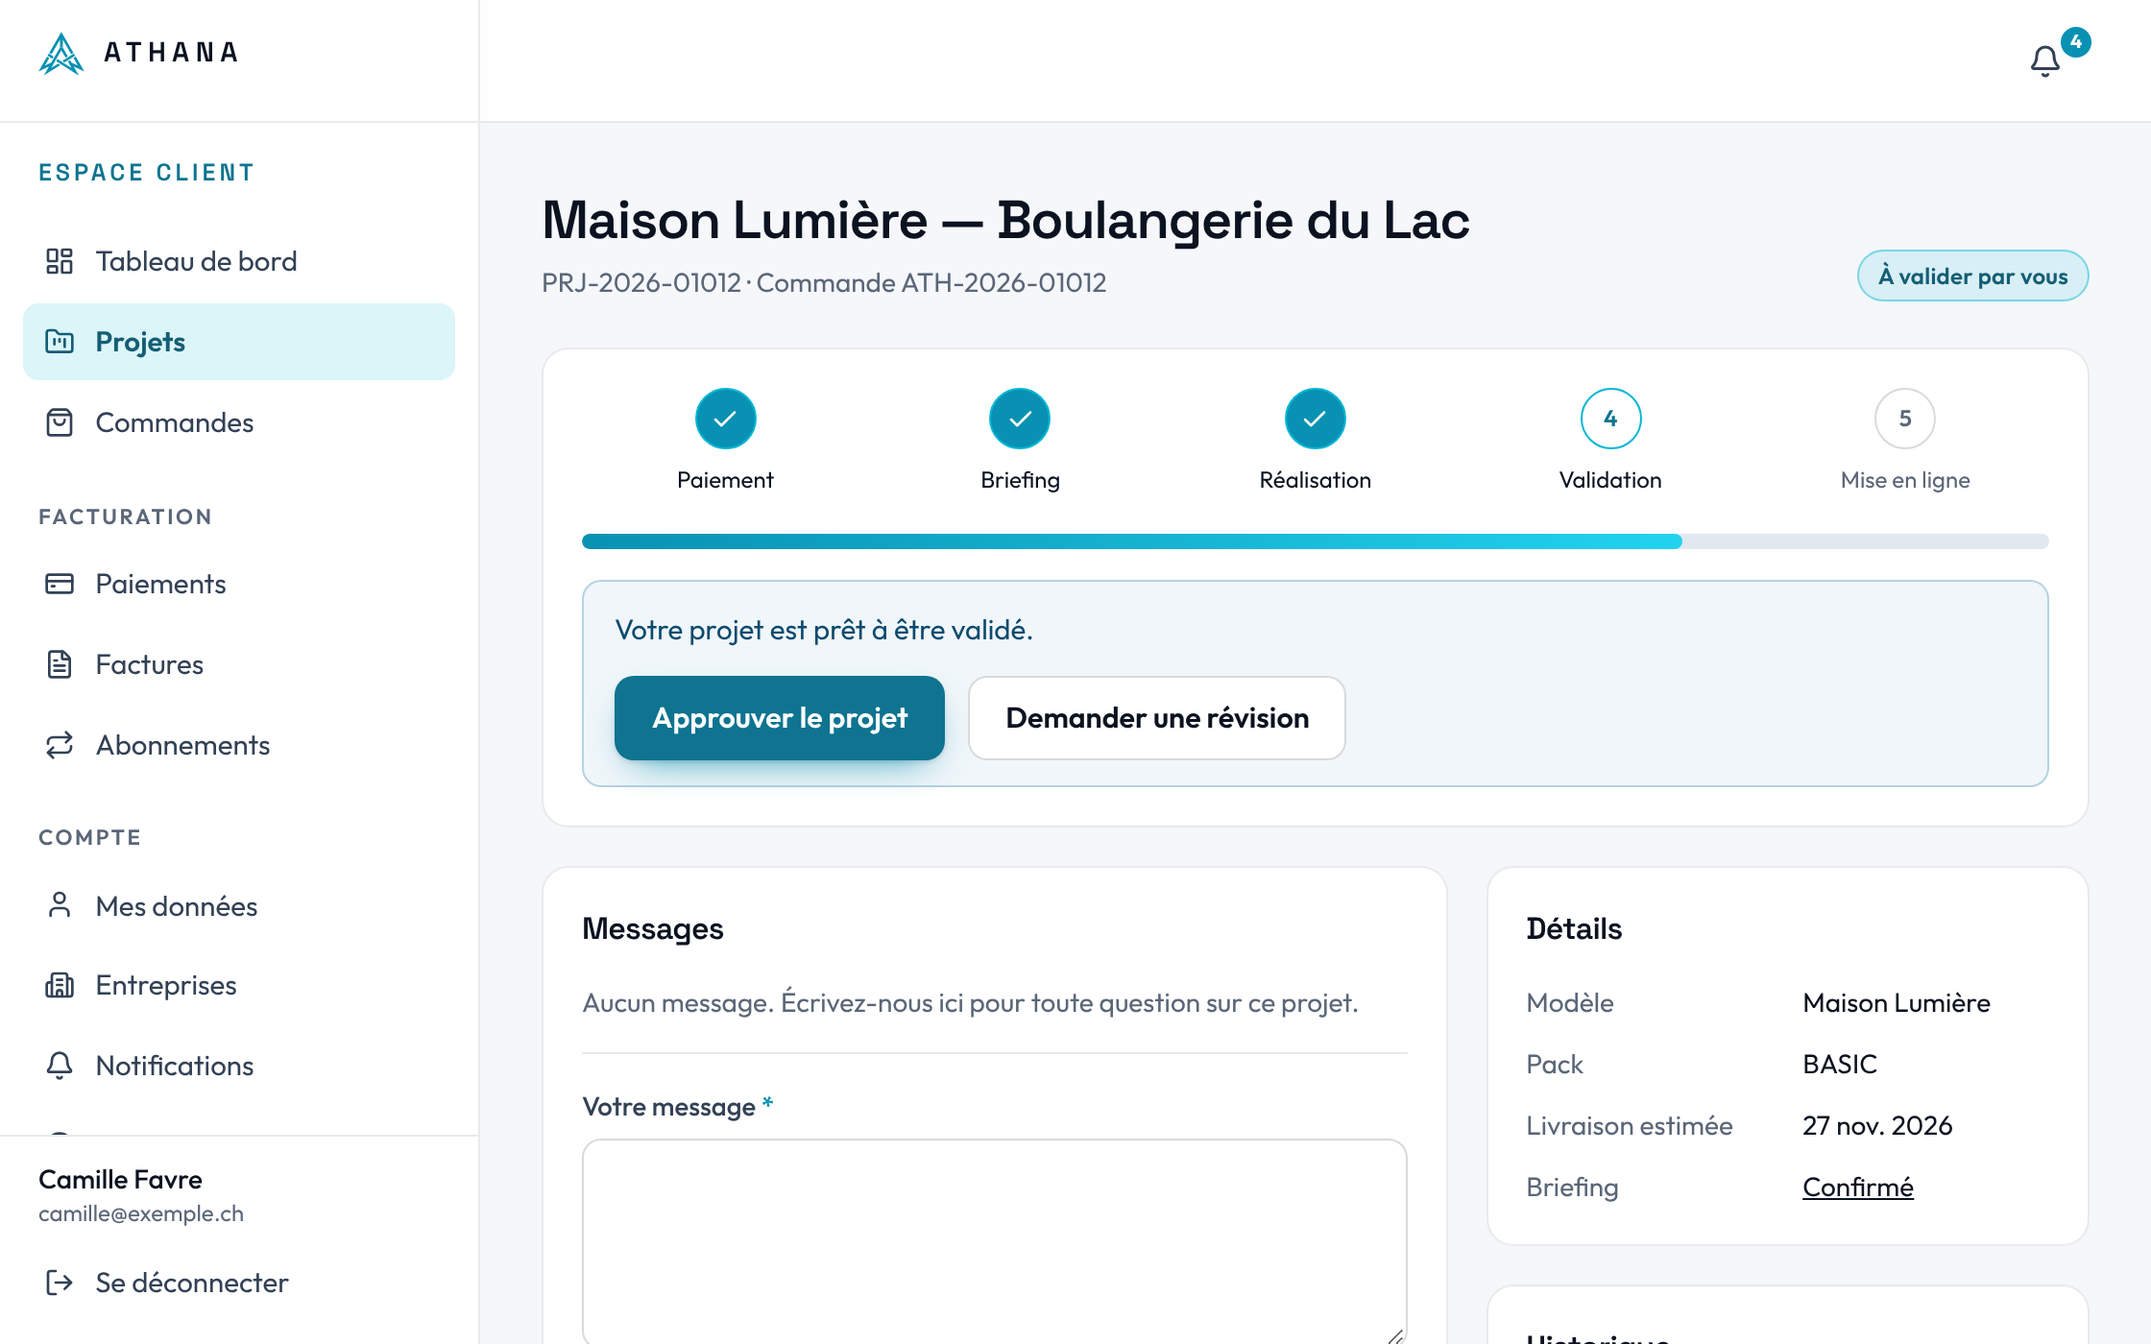
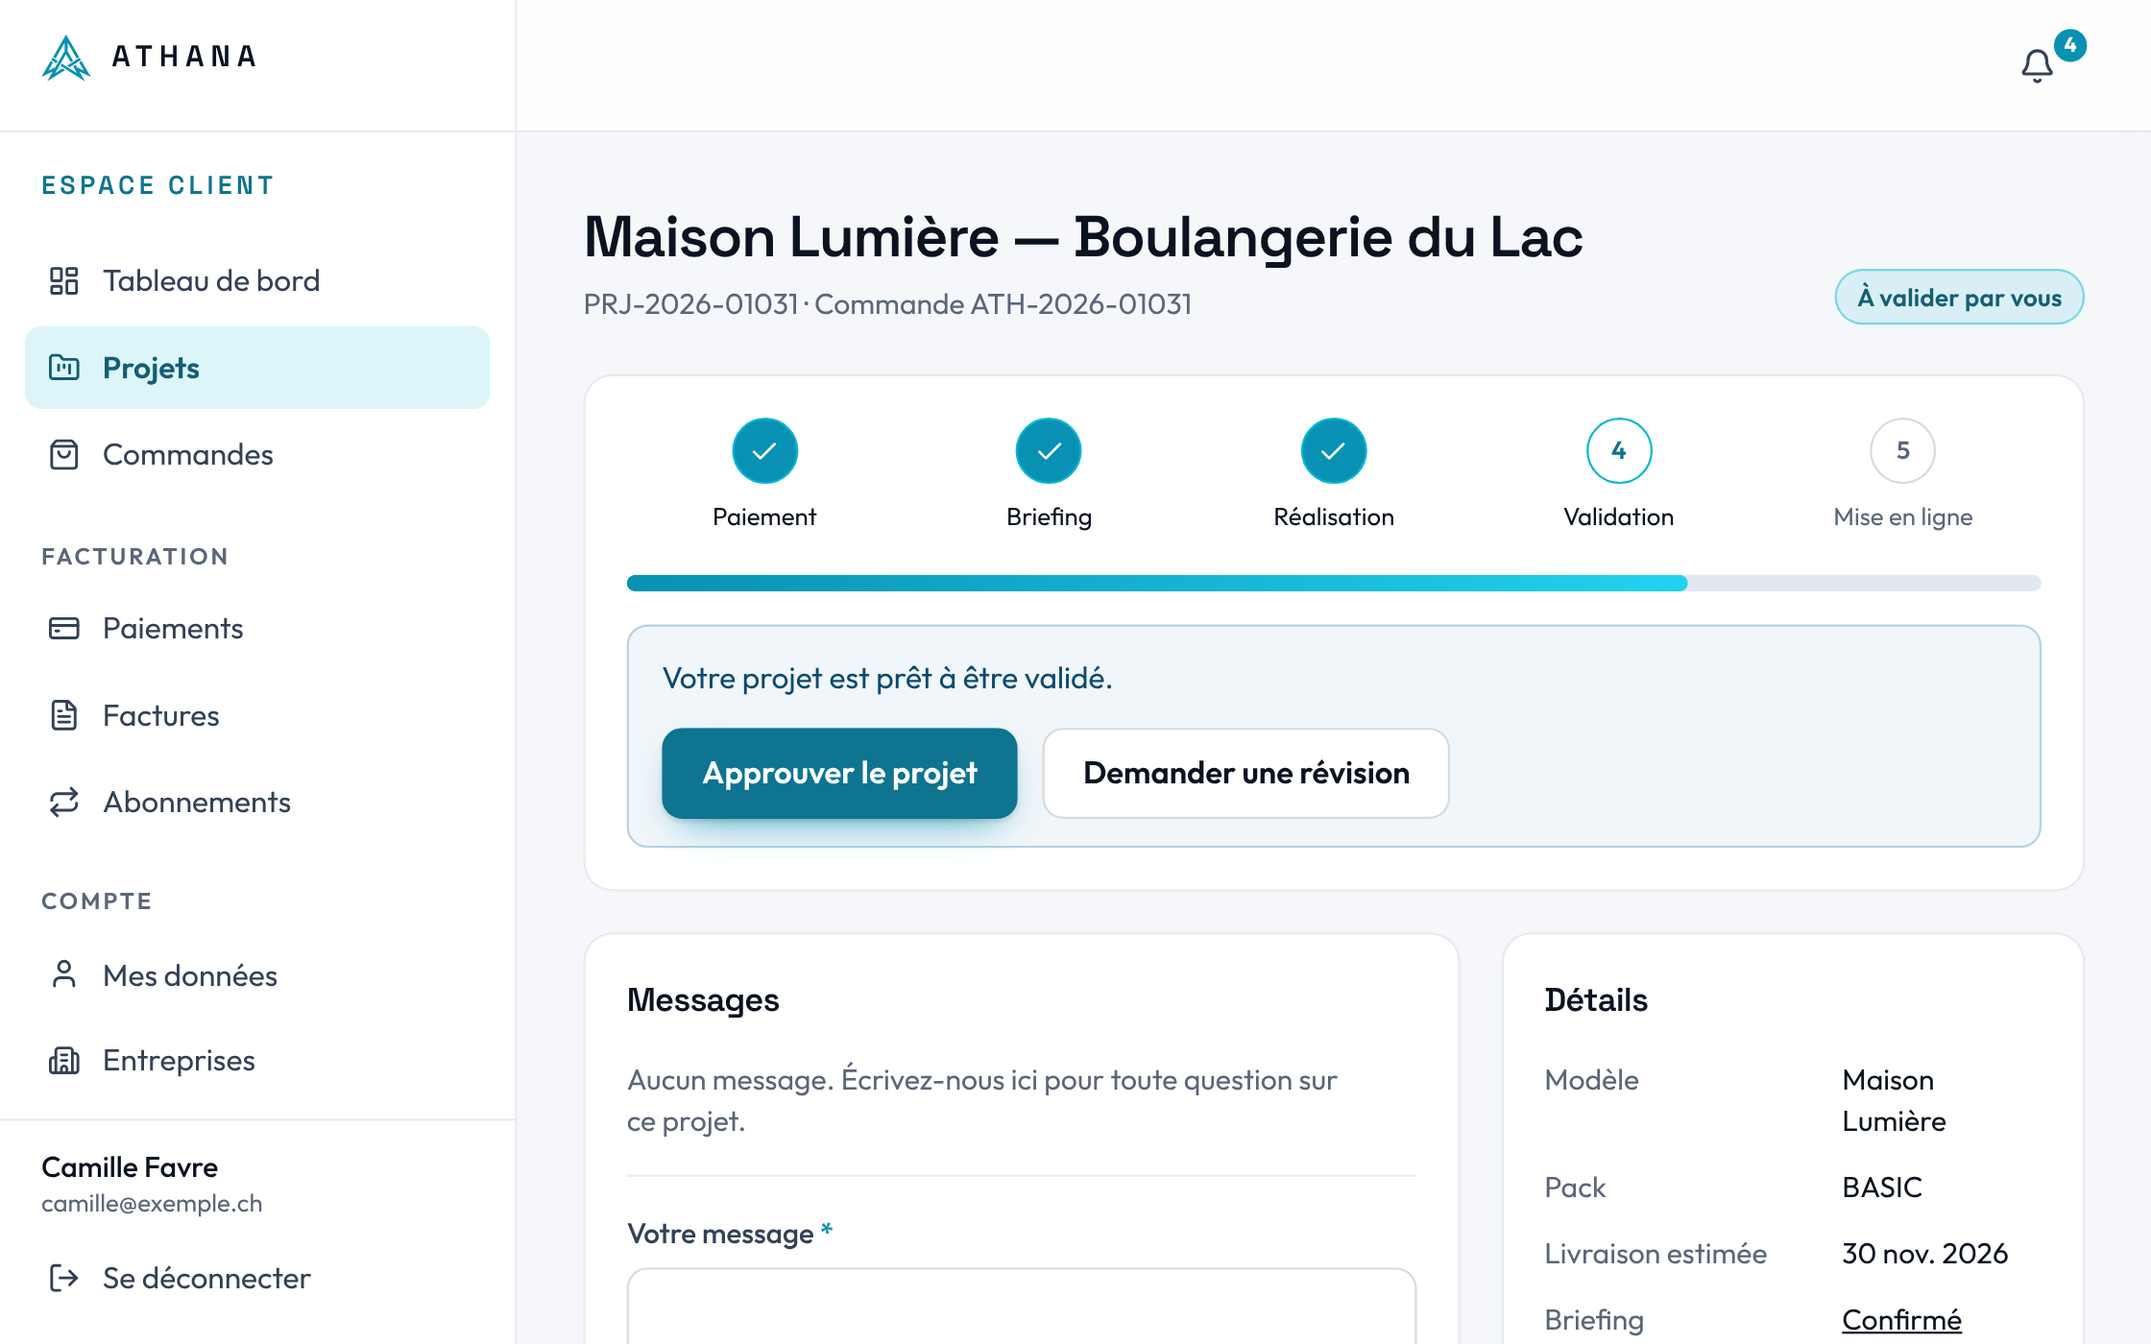
Public site: custom language menu, alternating software pictures, flat pill buttons, sharper client-area capture
Claude-Session: https://claude.ai/code/session_014ASPmz5AYwP5RQD6uPfvJx

diff --git a/src/app/globals.css b/src/app/globals.css
@@ -280,8 +280,13 @@
 .site-icon:active { transform: scale(0.94); }
 .site-lang { height: 42px; padding: 0 12px; border-radius: 999px; font-family: var(--font-display); font-weight: 500; color: var(--color-fg); transition: background-color 0.2s; }
 .site-lang:hover { background: rgb(12 18 28 / 0.06); }
-.site-lang select { font-family: inherit; font-weight: 500; color: inherit; }
-.site .btn.site-cta { min-height: 44px; padding-inline: 1.35rem; border-radius: 999px; font-size: 0.9375rem; }
+.lang-menu { position: absolute; right: 0; top: calc(100% + 8px); z-index: 50; min-width: 190px; padding: 6px; border-radius: 14px; background: #ffffff; box-shadow: 0 0 0 1px rgb(6 32 42 / 0.08), 0 18px 40px -16px rgb(6 32 42 / 0.35); font-family: var(--font-display); transform-origin: top right; opacity: 0; transform: translateY(-4px) scale(0.97); pointer-events: none; visibility: hidden; transition: opacity 0.14s, transform 0.14s, visibility 0s 0.14s; }
+.lang-menu[data-open="true"] { opacity: 1; transform: none; pointer-events: auto; visibility: visible; transition: opacity 0.2s cubic-bezier(0.2, 0.8, 0.2, 1), transform 0.2s cubic-bezier(0.2, 0.8, 0.2, 1); }
+.lang-menu button { display: flex; width: 100%; align-items: center; justify-content: space-between; gap: 16px; padding: 10px 12px; border-radius: 9px; font-size: 0.9375rem; font-weight: 500; color: #06202a; text-align: left; transition: background-color 0.15s; }
+.lang-menu button:hover { background: #e6f7fb; }
+.lang-menu button[aria-checked="true"] { background: #06202a; color: #ffffff; }
+.lang-code { font-size: 0.75rem; font-weight: 600; letter-spacing: 0.04em; opacity: 0.6; }
+.site .btn.site-cta { min-height: 42px; padding-inline: 1.25rem; font-size: 0.9rem; }
 @media (max-width: 1360px) { .site-nav a { padding-inline: 10px; font-size: 0.875rem; } .site .btn.site-cta { padding-inline: 1.1rem; font-size: 0.875rem; } .site-lang { padding-inline: 8px; } }
 /* Home hero: the two-column composition the owner chose (statement on the left, two real templates on the right)
    on a faintly tinted ground. */
@@ -290,8 +295,6 @@
 .site .hero .eyebrow { color: var(--color-accent-700); font-size: 0.9375rem; }
 .site .hero h1 { font-size: clamp(2.25rem, 3.75vw, 3.75rem); line-height: 1.1; letter-spacing: -0.03em; font-weight: 500; text-wrap: wrap; }
 .site .hero h1 .mark { color: var(--color-accent-700); white-space: nowrap; }
-.site .hero .btn { border-radius: 999px; padding-inline: 1.75rem; }
-.site .hero .btn-outline { color: var(--color-accent-800); background: transparent; }
 .site .hero-visual { position: relative; padding: 0 5% 9% 0; }
 .site .hero-visual > :nth-child(2) { position: absolute; right: 0; bottom: 0; width: 58%; }
 .site .hero-visual .browser { transition: transform 0.9s cubic-bezier(0.22, 1, 0.36, 1); will-change: transform; }
@@ -303,18 +306,22 @@
 @media (min-width: 1024px) and (min-height: 640px) { .site .hero { min-height: 100svh; display: grid; align-items: center; } }
 /* Colour: the first pass was too pale. Tinted grounds, a vivid primary action and a teal band. */
 .site { --color-ink-900: #e6f7fb; --color-ink-800: #d3eff6; --color-ink-700: #c4e8f1; --color-fg: #06202a; --color-fg-soft: #23414c; --color-fg-muted: #4c6873; }
-.site .btn-primary, .site .section-dark .btn-primary, .site .section-dark .section-light .btn-primary { background: linear-gradient(135deg, #2fdcf5 0%, #06b6d4 100%); color: #04232d; box-shadow: 0 12px 26px -14px #0891b2, inset 0 1px 0 rgb(255 255 255 / 0.45); }
-.site .btn-primary:hover, .site .section-dark .btn-primary:hover { background: linear-gradient(135deg, #5be6fa 0%, #12c2de 100%); }
-.site .btn-outline { border-color: color-mix(in srgb, var(--color-accent-600) 45%, transparent); color: var(--color-accent-900); }
-.site .btn-outline:hover { background: var(--color-accent-100); border-color: var(--color-accent-600); color: var(--color-accent-900); }
-.site .section-dark .btn-outline { color: #fff; border-color: rgb(255 255 255 / 0.35); }
-.site .section-dark .btn-outline:hover { background: rgb(255 255 255 / 0.1); color: #fff; }
+.site .btn { border-radius: 999px; min-height: 46px; padding: 0 1.4rem; border: 1.5px solid transparent; font-weight: 600; font-size: 0.9375rem; letter-spacing: -0.005em; box-shadow: none; }
+.site .btn-lg { min-height: 52px; padding: 0 1.75rem; border-radius: 999px; font-size: 1rem; }
+.site .btn-sm { min-height: 40px; padding: 0 1.1rem; border-radius: 999px; font-size: 0.875rem; }
+.site .btn-primary, .site .section-dark .section-light .btn-primary { background: #0b5d73; border-color: #0b5d73; color: #ffffff; box-shadow: none; }
+.site .btn-primary:hover, .site .section-dark .section-light .btn-primary:hover { background: #06202a; border-color: #06202a; }
+.site .btn-outline, .site .hero .btn-outline { background: transparent; border-color: #06202a; color: #06202a; }
+.site .btn-outline:hover { background: #06202a; border-color: #06202a; color: #ffffff; }
+.site .section-dark .btn-primary { background: #ffffff; border-color: #ffffff; color: #06202a; }
+.site .section-dark .btn-primary:hover { background: var(--color-accent-200); border-color: var(--color-accent-200); }
+.site .section-dark .btn-outline { background: transparent; color: #ffffff; border-color: rgb(255 255 255 / 0.6); }
+.site .section-dark .btn-outline:hover { background: #ffffff; border-color: #ffffff; color: #06202a; }
 .site .hero { background:
   radial-gradient(60% 70% at 88% 18%, rgb(34 211 238 / 0.38), transparent 70%),
   radial-gradient(45% 55% at 62% 92%, rgb(16 185 129 / 0.16), transparent 70%),
   linear-gradient(180deg, #d6f5fb 0%, #eefbfd 62%, #ffffff 100%); }
 .site .hero h1 .mark { color: var(--color-accent-600); }
-.site .hero .btn-outline { background: #ffffff; }
 .site .screen--surface { background: linear-gradient(180deg, #e6f7fb 0%, #f1fbfd 100%); }
 .site .section-dark { background: linear-gradient(135deg, #04222c 0%, #0a4254 55%, #0e6d87 120%); --color-ink-950: #062c39; --color-ink-900: rgb(255 255 255 / 0.08); --color-ink-850: rgb(255 255 255 / 0.08); --color-ink-800: rgb(255 255 255 / 0.14); --color-fg: #ffffff; --color-fg-soft: #cdeaf2; --color-fg-muted: #9cc9d6; }
 .site .section-dark .num { color: var(--color-accent-300); font-weight: 600; }

diff --git a/src/components/site/HeaderClient.tsx b/src/components/site/HeaderClient.tsx
@@ -1,8 +1,8 @@
 'use client';
 
-import { useEffect, useState } from 'react';
+import { useEffect, useRef, useState } from 'react';
 import { usePathname } from 'next/navigation';
-import { Menu, X, Globe, ShoppingBag, User } from 'lucide-react';
+import { Menu, X, Globe, ShoppingBag, User, ChevronDown } from 'lucide-react';
 import { Link, useLocale, useT } from '@/i18n/client';
 import { LOCALES, LOCALE_META, switchLocalePath } from '@/i18n/config';
 import { Logo } from './Logo';
@@ -11,24 +11,34 @@ export function LanguageSwitcher({ compact }: { compact?: boolean }) {
   const locale = useLocale();
   const pathname = usePathname();
   const t = useT();
+  const [open, setOpen] = useState(false);
+  const ref = useRef<HTMLDivElement>(null);
+  useEffect(() => {
+    if (!open) return;
+    const close = (e: Event) => { if (e instanceof KeyboardEvent ? e.key === 'Escape' : !ref.current?.contains(e.target as Node)) setOpen(false); };
+    document.addEventListener('pointerdown', close); document.addEventListener('keydown', close);
+    return () => { document.removeEventListener('pointerdown', close); document.removeEventListener('keydown', close); };
+  }, [open]);
+  const go = (to: (typeof LOCALES)[number]) => {
+    // Remember the explicit choice so automatic detection never overrides it.
+    document.cookie = `athana_locale=${to}; path=/; max-age=31536000; samesite=lax`;
+    window.location.assign(switchLocalePath(pathname, to) + window.location.search);
+  };
   return (
-    <label className="site-lang relative inline-flex items-center gap-1.5 text-sm text-fg-soft">
-      <Globe size={16} aria-hidden />
-      <span className="sr-only">{t('Langue et pays')}</span>
-      <select
-        aria-label={t('Langue et pays')}
-        className="cursor-pointer appearance-none bg-transparent pr-1 text-sm text-fg-soft hover:text-fg focus:outline-none"
-        value={locale}
-        onChange={(e) => {
-          const to = e.target.value as (typeof LOCALES)[number];
-          // Remember the explicit choice so automatic detection never overrides it.
-          document.cookie = `athana_locale=${to}; path=/; max-age=31536000; samesite=lax`;
-          window.location.assign(switchLocalePath(pathname, to) + window.location.search);
-        }}
-      >
-        {LOCALES.map((l) => <option key={l} value={l} className="bg-ink-850 text-fg">{compact ? l.slice(0, 2).toUpperCase() : LOCALE_META[l].label}</option>)}
-      </select>
-    </label>
+    <div ref={ref} className="lang relative">
+      <button type="button" data-lang-switch className="site-lang inline-flex items-center gap-1.5 text-sm" aria-haspopup="menu" aria-expanded={open} aria-label={t('Langue')} onClick={() => setOpen((v) => !v)}>
+        <Globe size={16} strokeWidth={1.75} aria-hidden />
+        <span>{compact ? locale.slice(0, 2).toUpperCase() : LOCALE_META[locale].label}</span>
+        <ChevronDown size={14} className={`transition-transform duration-200 ${open ? 'rotate-180' : ''}`} aria-hidden />
+      </button>
+      <div role="menu" className="lang-menu" data-open={open}>
+        {LOCALES.map((l) => (
+          <button key={l} type="button" role="menuitemradio" aria-checked={l === locale} data-lang={l} tabIndex={open ? 0 : -1} onClick={() => go(l)}>
+            <span>{LOCALE_META[l].label}</span><span aria-hidden className="lang-code">{l.slice(0, 2).toUpperCase()}</span>
+          </button>
+        ))}
+      </div>
+    </div>
   );
 }
 

diff --git a/scripts/capture-client-area.ts b/scripts/capture-client-area.ts
@@ -1,0 +1,36 @@
+/**
+ * Captures the client-area project screen shown on the home page, from the real application.
+ * Needs a local server and a project awaiting client validation (the end-to-end purchase scenario creates one).
+ *   BASE_URL=http://localhost:3000 npx tsx scripts/capture-client-area.ts
+ */
+import { chromium } from 'playwright';
+import { PrismaClient } from '@prisma/client';
+import { hashPassword } from '../src/lib/crypto';
+
+const BASE = process.env.BASE_URL || 'http://localhost:3000';
+const PASSWORD = 'Demo-captures-2026!';
+const db = new PrismaClient();
+const project = await db.project.findFirst({ where: { status: 'CLIENT_REVIEW' }, include: { user: true }, orderBy: { createdAt: 'desc' } });
+if (!project) throw new Error('No project in CLIENT_REVIEW: run the end-to-end purchase scenario first.');
+await db.user.update({ where: { id: project.userId }, data: { passwordHash: await hashPassword(PASSWORD), name: 'Camille Favre' } });
+
+const browser = await chromium.launch();
+const ctx = await browser.newContext({ viewport: { width: 1040, height: 650 }, deviceScaleFactor: 2.154 });
+await ctx.addCookies([{ name: 'athana_consent', value: encodeURIComponent(JSON.stringify({ v: 1, necessary: true, analytics: false, marketing: false, ts: Date.now() })), url: BASE }]);
+const page = await ctx.newPage();
+await page.goto(`${BASE}/fr-ch/connexion`, { waitUntil: 'networkidle' });
+await page.locator('input[type=email]').fill(project.user.email);
+await page.locator('input[type=password]').fill(PASSWORD);
+await page.getByRole('button', { name: 'Se connecter' }).click();
+await page.waitForURL(/compte/);
+await page.goto(`${BASE}/fr-ch/compte/projects/${project.id}`, { waitUntil: 'networkidle' });
+// Demonstration identity instead of the test account's generated one.
+await page.evaluate(() => {
+  const w = document.createTreeWalker(document.body, NodeFilter.SHOW_TEXT); let n: Node | null;
+  while ((n = w.nextNode())) n.nodeValue = n.nodeValue!.replace('Camille Test', 'Boulangerie du Lac').replace(/e2e-\w+@example\.test/, 'camille@exemple.ch');
+});
+await page.addStyleTag({ content: '[aria-label="Accent colour (development only)"]{display:none!important}' });
+await page.screenshot({ path: 'public/images/software/espace-client.png' });
+console.log('captured espace-client');
+await browser.close();
+await db.$disconnect();

diff --git a/src/components/site/Showcase.tsx b/src/components/site/Showcase.tsx
@@ -7,7 +7,7 @@ export function BrowserFrame({ src, alt, priority, className = '', ratio = '16/1
     <div className={`browser ${className}`}>
       <div className="browser-bar" aria-hidden><i /><i /><i /></div>
       <div className="relative bg-ink-800" style={{ aspectRatio: ratio }}>
-        <Image src={src} alt={alt} fill sizes={sizes} priority={priority} quality={92} className="object-cover object-top" />
+        <Image src={src} alt={alt} fill sizes={sizes} priority={priority} quality={92} unoptimized={src.startsWith('/images/software/')} className="object-cover object-top" />
       </div>
     </div>
   );
@@ -18,7 +18,7 @@ export function PhoneFrame({ src, alt, className = '' }: { src: string; alt: str
   return (
     <div className={`relative w-[230px] shrink-0 rounded-[34px] border border-line-strong bg-fg p-2 shadow-[0_30px_60px_-28px_rgb(15_23_42/0.5)] ${className}`}>
       <div className="relative overflow-hidden rounded-[27px] bg-ink-850" style={{ aspectRatio: '390/800' }}>
-        <Image src={src} alt={alt} fill sizes="230px" quality={92} className="object-cover object-top" />
+        <Image src={src} alt={alt} fill sizes="230px" quality={92} unoptimized={src.startsWith('/images/software/')} className="object-cover object-top" />
       </div>
     </div>
   );
@@ -40,11 +40,11 @@ export function HeroShowcase({ items }: { items: { src: string; alt: string }[] 
   );
 }
 
-/** Text on the left, the product on the right. Always this way round. */
-export function Split({ eyebrow, title, text, bullets, cta, visual }: { eyebrow?: string; title: string; text: string; bullets?: string[]; cta?: ReactNode; visual: ReactNode }) {
+/** Text on one side, the product on the other; `flip` puts the picture on the left. */
+export function Split({ eyebrow, title, text, bullets, cta, visual, flip }: { eyebrow?: string; title: string; text: string; bullets?: string[]; cta?: ReactNode; visual: ReactNode; flip?: boolean }) {
   return (
     <div className="grid items-start gap-10 lg:grid-cols-12 lg:gap-8">
-      <div className="lg:col-span-5 lg:pr-8">
+      <div className={`lg:col-span-5 ${flip ? 'lg:order-2 lg:pl-8' : 'lg:pr-8'}`}>
         {eyebrow && <p className="eyebrow mb-3">{eyebrow}</p>}
         <h3>{title}</h3>
         <p className="mt-4 text-fg-soft">{text}</p>

diff --git a/src/app/[locale]/(site)/page.tsx b/src/app/[locale]/(site)/page.tsx
@@ -117,12 +117,12 @@ export default async function Home({ params }: { params: Promise<{ locale: strin
       {/* Software: real product screens, text always on the left */}
       <Section title={t('Nos logiciels en abonnement')} lead={t('Des outils de gestion simples, hébergés pour vous, sans installation.')} className="screen--surface">
         <div className="space-y-20 md:space-y-28">
-          {saasActive.map((s) => {
+          {saasActive.map((s, i) => {
             const from = s.plans[0] ? priceFor(s.plans[0].prices, currency) : null;
             const copy = saasCopy(s.key, t);
             return (
               <Reveal key={s.key}>
-                <Split eyebrow={s.name} title={L(s.tagline, locale)} text={L(s.description, locale)} bullets={copy?.features.slice(0, 3).map(([title]) => title)}
+                <Split flip={i % 2 === 1} eyebrow={s.name} title={L(s.tagline, locale)} text={L(s.description, locale)} bullets={copy?.features.slice(0, 3).map(([title]) => title)}
                   cta={<>
                     <a className="btn btn-primary" href={p(`/software/${s.key}`)}>{t('Voir {name}', { name: s.name })}</a>
                     {from !== null && <span className="text-fg-soft">{t('dès')} <strong className="font-medium text-fg">{formatMoney(from, currency, locale)}</strong> {t('/ mois')}</span>}

diff --git a/e2e/saas-i18n.spec.ts b/e2e/saas-i18n.spec.ts
@@ -50,7 +50,8 @@ test('languages: detection, manual switch, localized URLs, hreflang and a single
   await page.goto('/de-ch/vorlagen');
   await expect(page.getByText('CHF').first()).toBeVisible();
   // The explicit choice wins over browser detection.
-  await page.getByLabel(/./).filter({ has: page.locator('option[value="fr-ch"]') }).first().selectOption('fr-ch');
+  await page.locator('[data-lang-switch]').first().click();
+  await page.locator('[data-lang="fr-ch"]').first().click();
   await expect(page).toHaveURL(/\/fr-ch\/modeles/);
   await expect(page.getByText('CHF').first()).toBeVisible();
   await page.goto('/');
